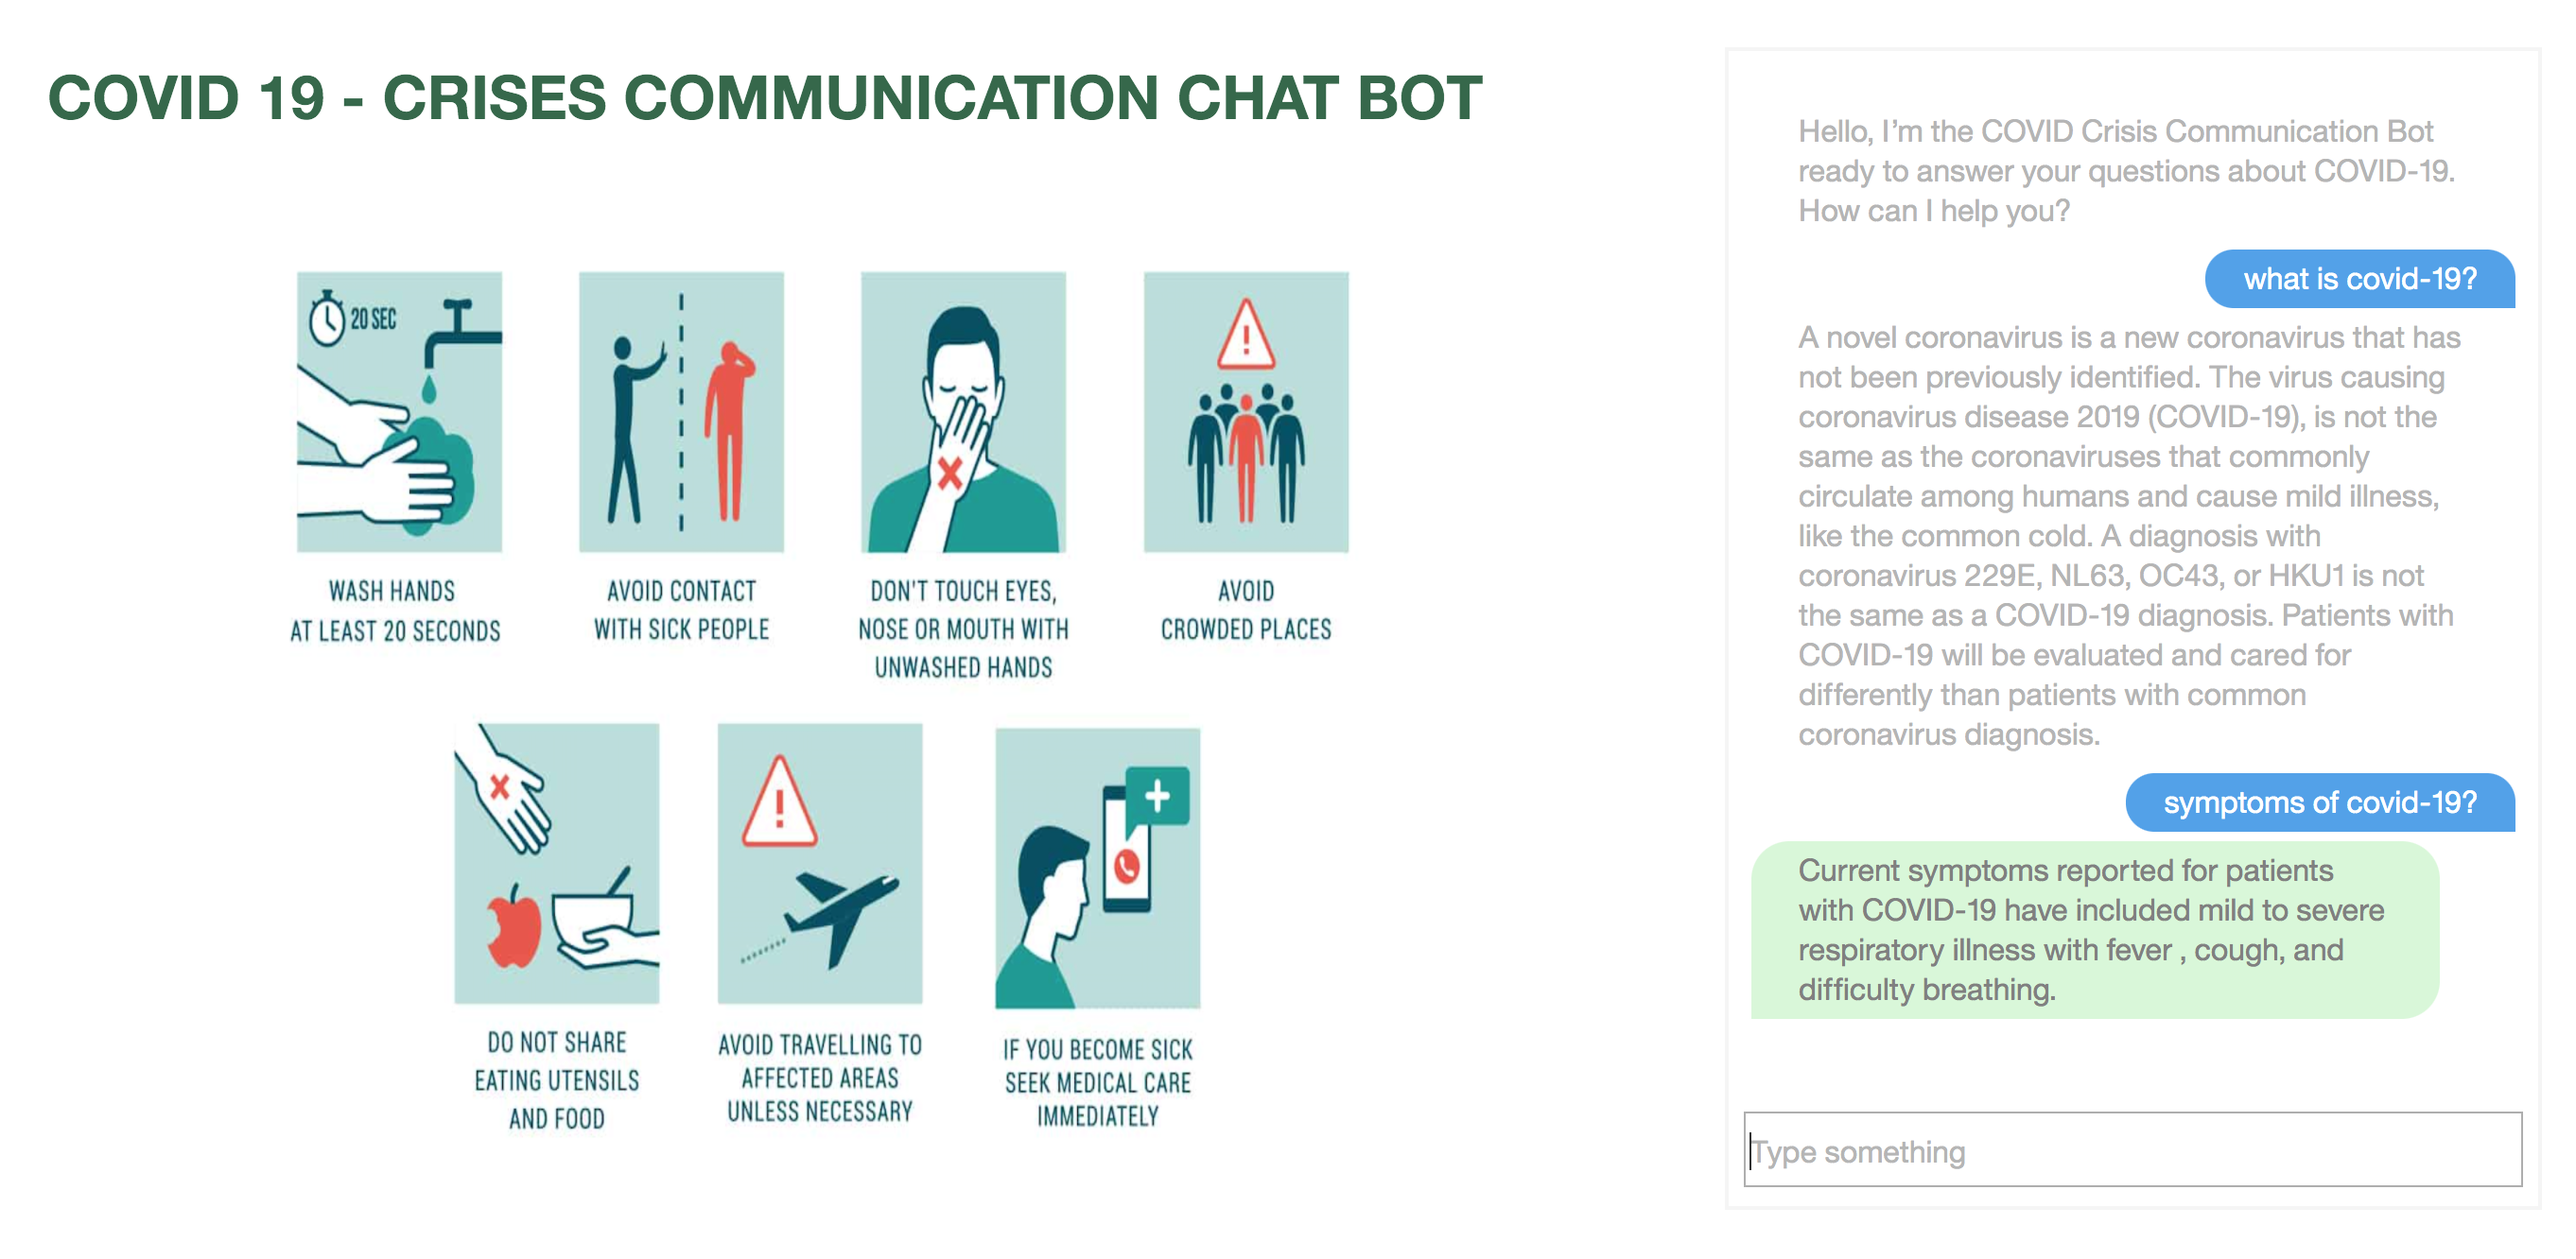
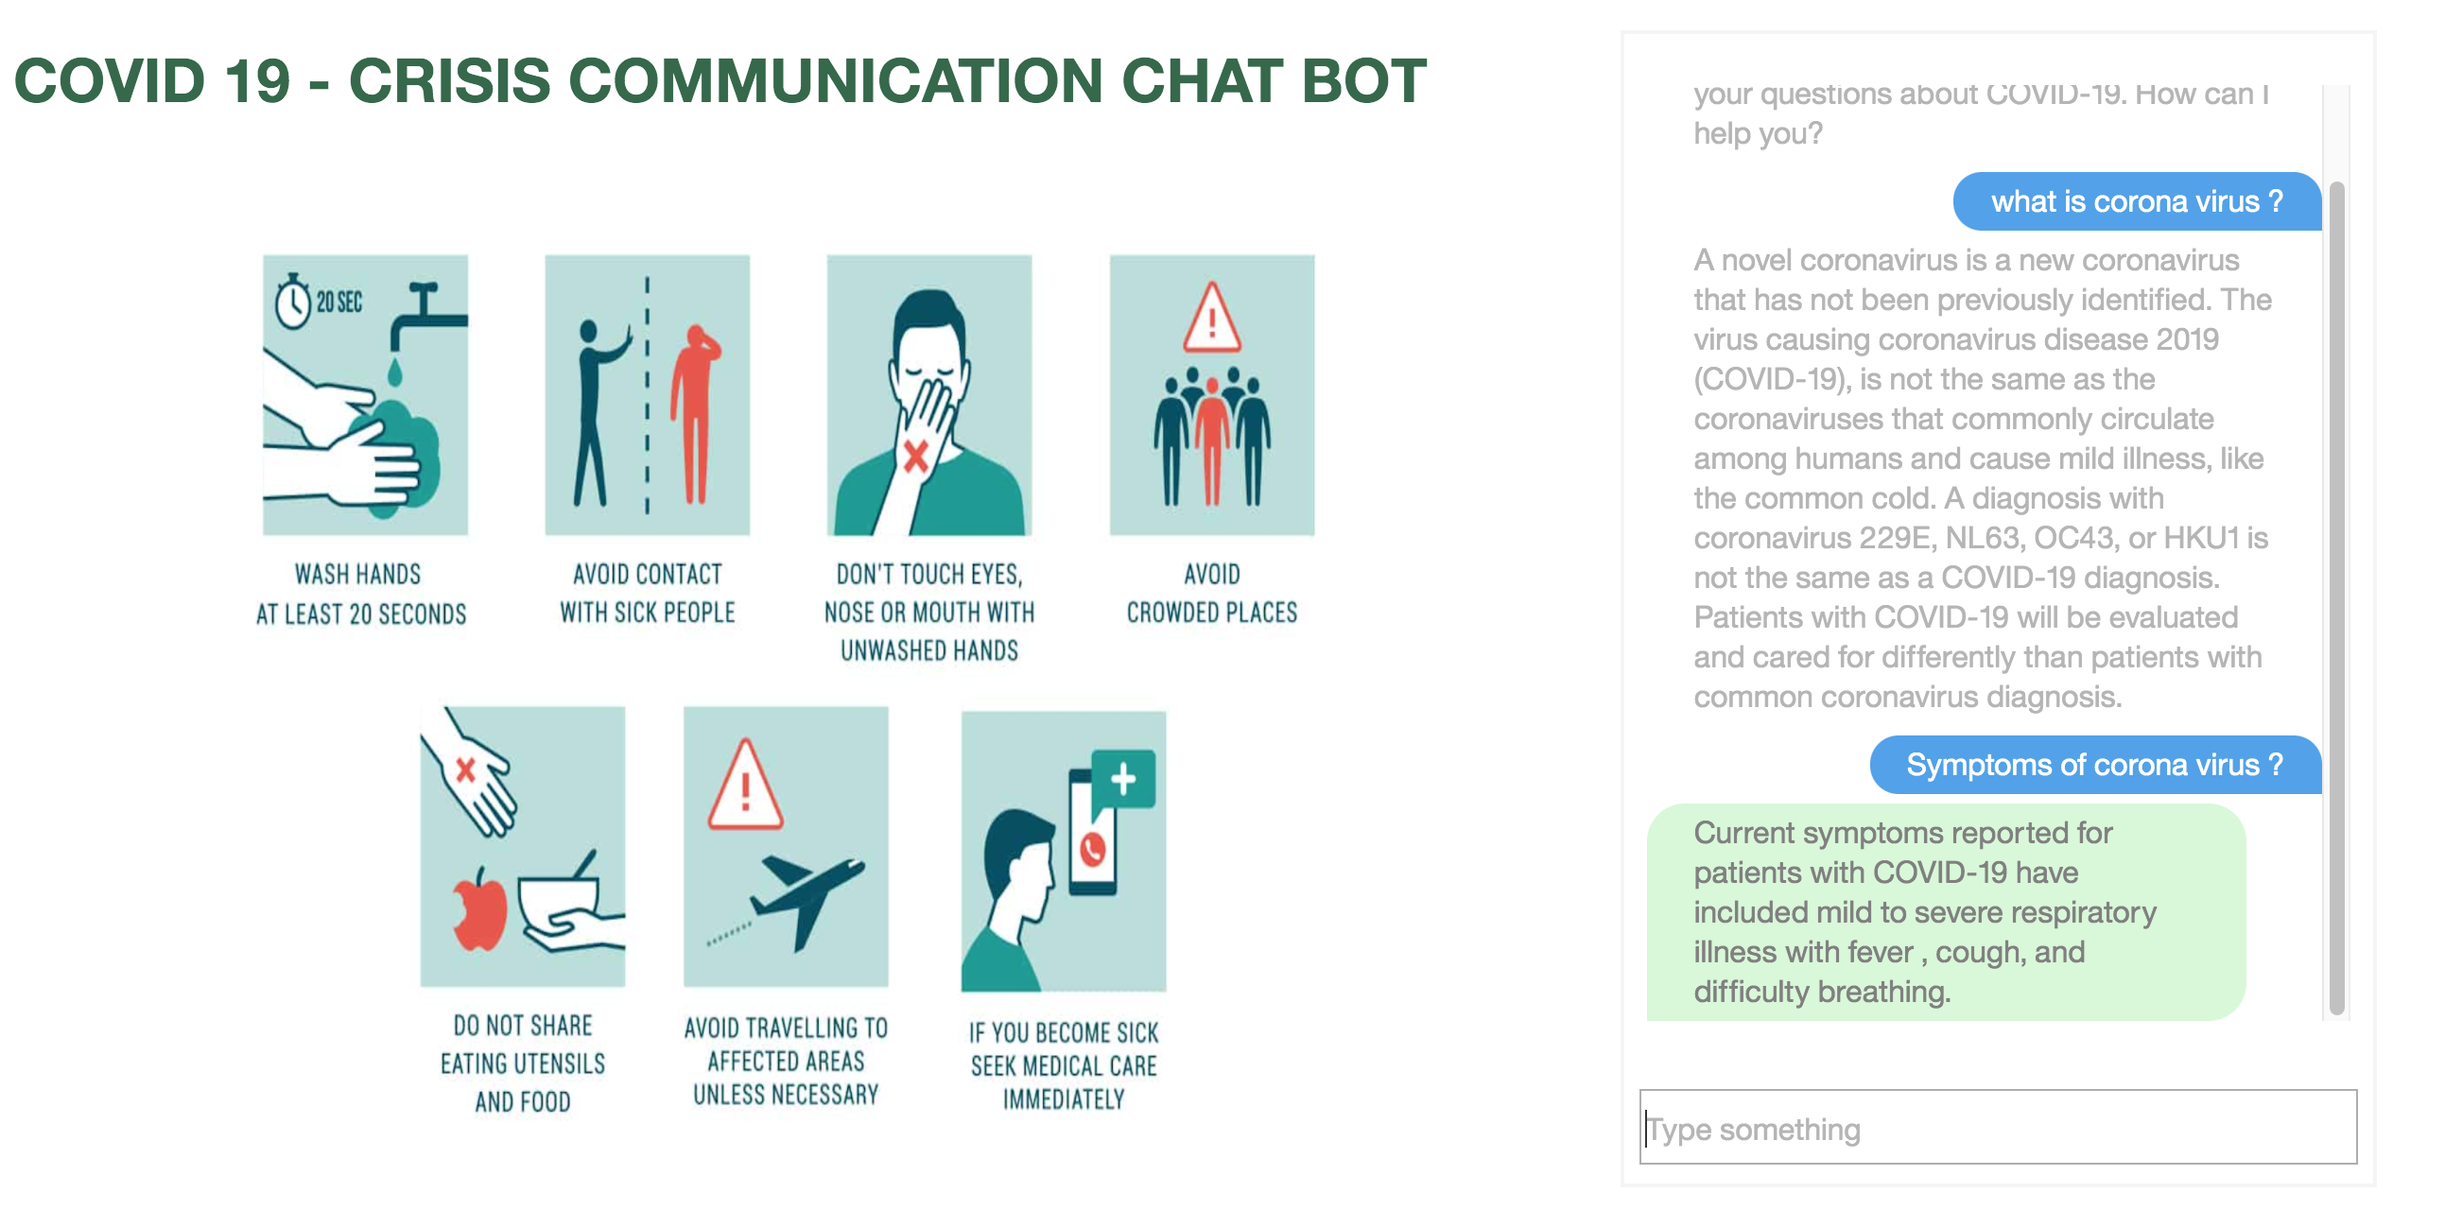
Files added and updated

diff --git a/public/index.html b/public/index.html
@@ -36,7 +36,7 @@
     </div>
     <div id="first-cloumn">
     <div style="margin-left:5rem;margin-top: 3rem;color: rgb(52, 104, 74);">
-        <h1> COVID 19 - CRISES COMMUNICATION CHAT BOT </h1>
+        <h1> COVID 19 - CRISIS COMMUNICATION CHAT BOT </h1>
     </div>
     <div style="margin-left:10rem;margin-top:4rem;background-image: url('../img/covid-19-image-edited.png'); background-repeat: no-repeat; height: 70%; background-size: 44rem 31rem;">
          <div> </div>

diff --git a/README.md b/README.md
@@ -9,7 +9,7 @@ You can view a [demo][demo_url] of this app.
 The files in this repository have the following purpose:
 *  [watson-assistant/skill-CDC-COVID-FAQ.json](watson-assistant/skill-CDC-COVID-FAQ.json): Skill / Workspace file used with IBM Watson Assistant service
 * [cloud-functions/covid/cloud-functions.js](cloud-functions/covid/cloud-functions.js): Code for cloud function actions which calls covid19api.
-1. Other files in the covid-simple-chat bot are related to nodejs app. 
+* Other files in the [covid-simple-chatbot](covid-simple-chatbot) folder are related to nodejs app. 
 
 ## Prerequisites
 1. Sign up for an [IBM Cloud account](https://cloud.ibm.com/registration/).
